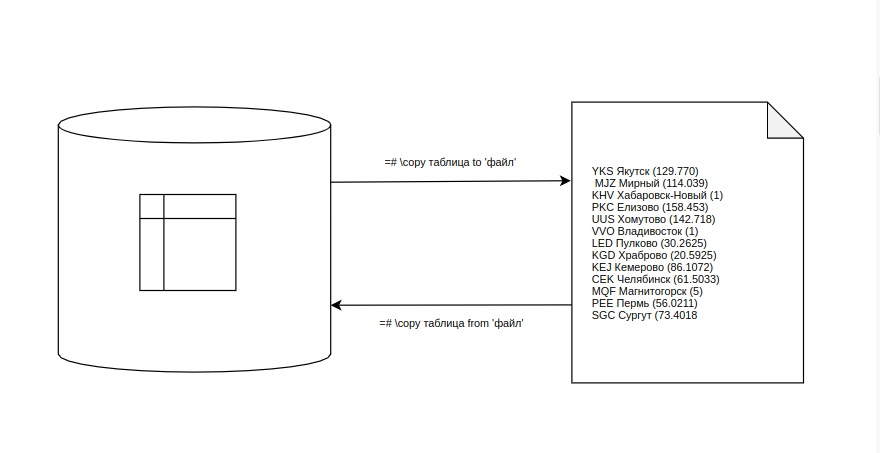
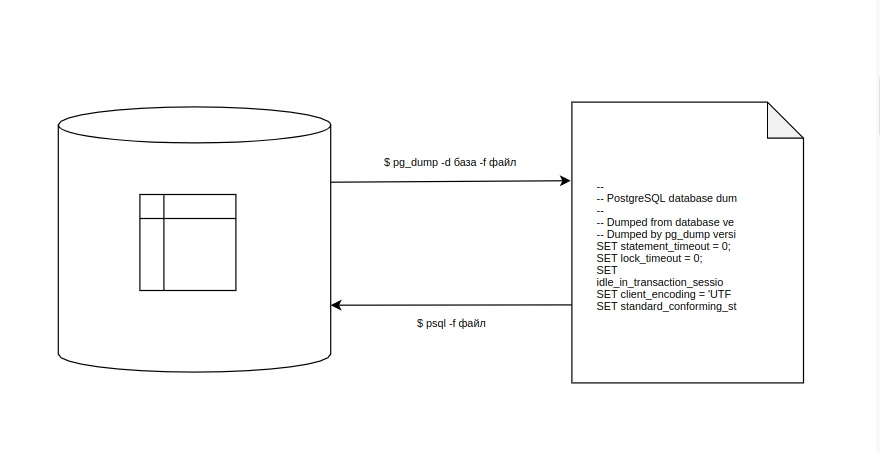
fix: img dba3-10

Changed region(s): [[0.675, 0.3709, 0.8591, 0.7108], [0.4295, 0.6799, 0.583, 0.7417], [0.4295, 0.34, 0.583, 0.3709]]

diff --git a/DBA3-10/LogicalRedundancy/README.md b/DBA3-10/LogicalRedundancy/README.md
@@ -39,7 +39,7 @@
 *** 
 
 ### SQL-команда `COPY`
-<img style="height:140px" src="https://i.ibb.co/k31HYQt/Logical-Redundany.jpg"></img>
+<img src="https://github.com/v1adt3r/SQL/blob/main/DBA3-10/LogicalRedundancy/1.jpeg?raw=true"></img>
 
 - Файл в ФС сервера и доступен владельцу экземпляра PostgreSQL, можно ограничить столбцы (или использовать произвольный запрос)
 при восстановлении строки добавляются к имеющимся в таблице
@@ -67,7 +67,7 @@
 
 ### Команда psql `\copy`
 
-<img src="https://i.ibb.co/SVS5NLS/1.jpg"></img>
+<img src="https://github.com/v1adt3r/SQL/blob/main/DBA3-10/LogicalRedundancy/2.jpeg?raw=true"></img>
 
 - Файл в ФС клиента и доступен пользователю ОС, запустившему psql
   происходит пересылка данных между клиентом и сервером
@@ -92,7 +92,7 @@
 ***
 
 ### Копия базы данных
-<img src="https://i.ibb.co/ZcKYmhf/2.jpg"></img>
+<img src="https://github.com/v1adt3r/SQL/blob/main/DBA3-10/LogicalRedundancy/3.jpeg?raw=true"></img>
 
 - Формат: команды SQL
   при выгрузке можно выбрать отдельные объекты базы данных
